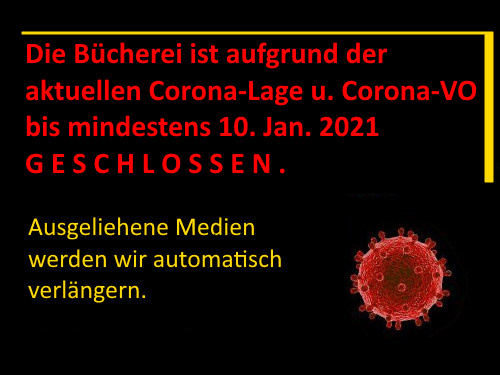
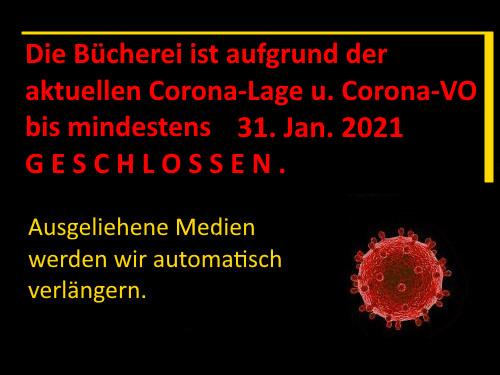
Corona update and management team

diff --git a/datenschutzerklaerung.html b/datenschutzerklaerung.html
@@ -27,7 +27,7 @@
     <p>
         <strong>Verantwortliche Stelle (Büchereileitung):</strong><br />
         Kath. öffentl. Bücherei Hl. Dreieinigkeit Bilfingen<br />
-        Büchereileitung: <strong>Edeltraud Wessinger</strong> / Hauptstr. 18 / 75236 Kämpfelbach<br />
+        Büchereileitung: <strong>Isabell Sartissohn / Anna Gurkicher / Felix Ams</strong> / Hauptstr. 16 / 75236 Kämpfelbach<br />
         Telefon:  07232 3134200  /  eMail:  info@buecherei-bilfingen.de<br />
     </p>
     <p>
